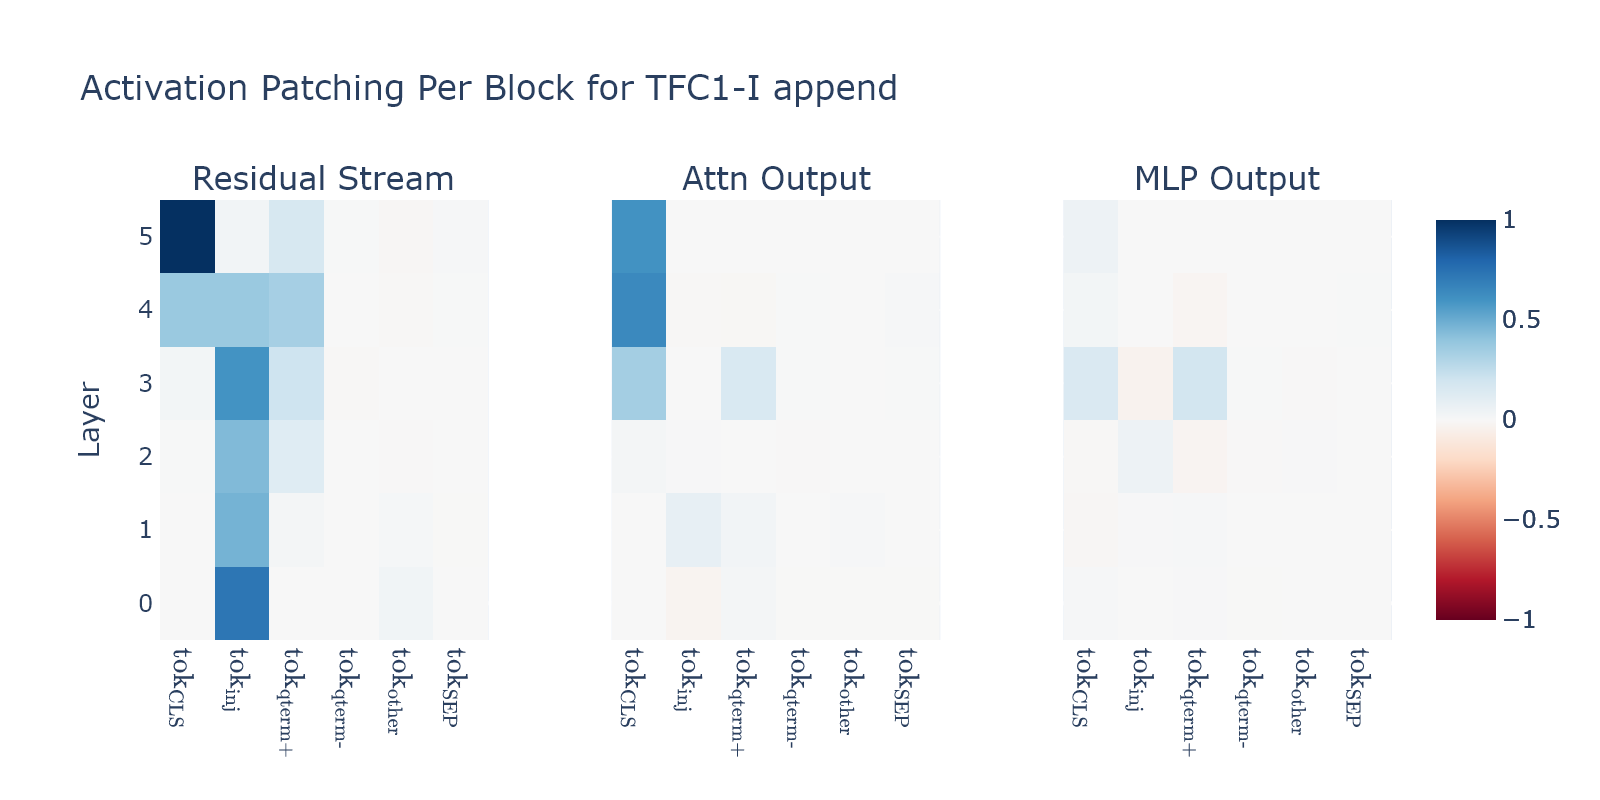
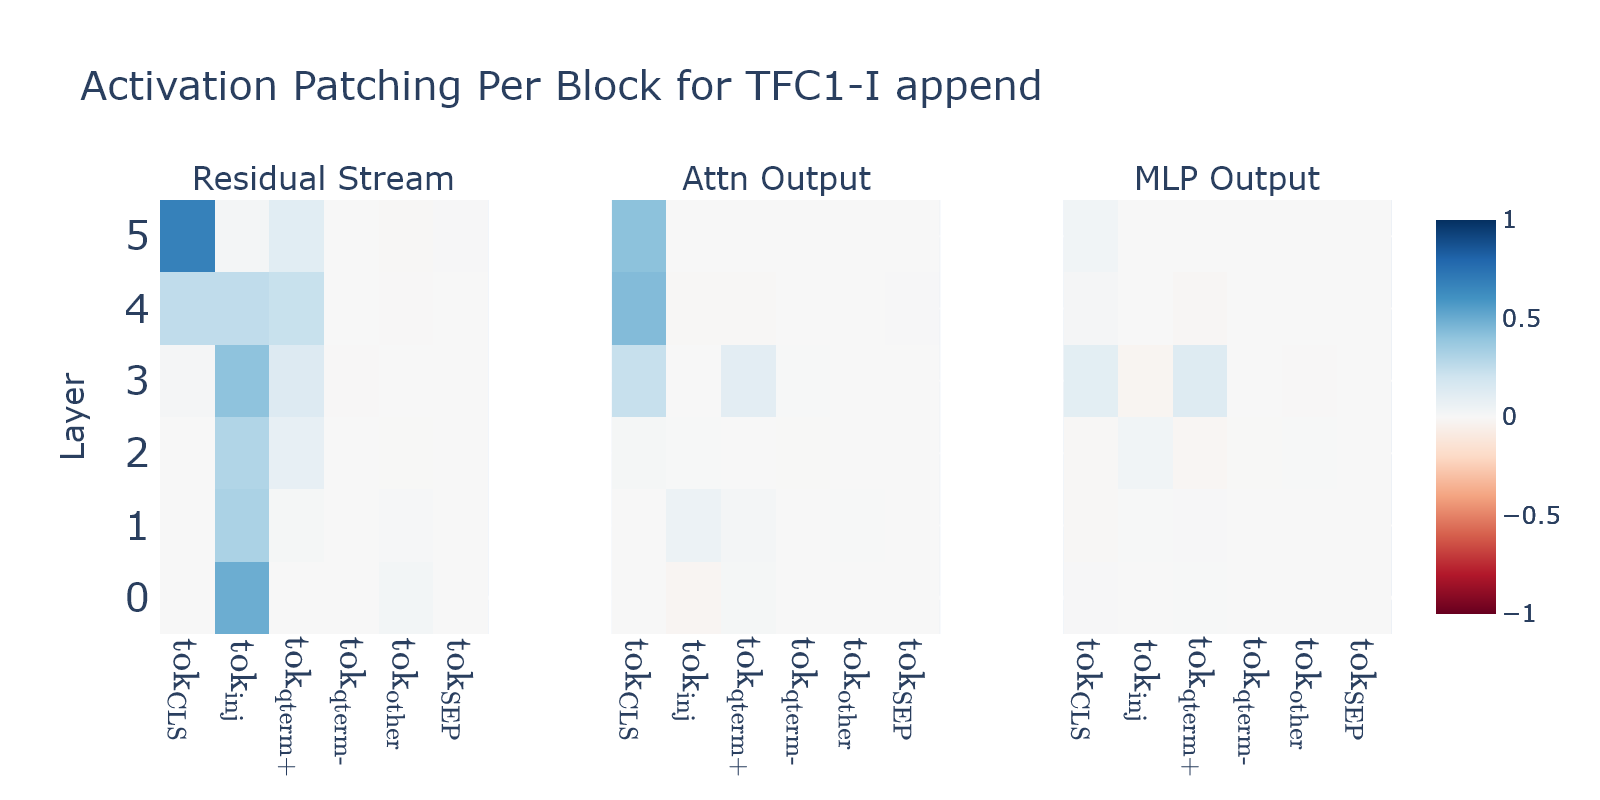
Removed unneccessary functions

diff --git a/plot_results.py b/plot_results.py
@@ -28,14 +28,6 @@ def load_jsonl_file_into_dict(fname):
     return data
 
 
-def load_json_file(file_path):
-    """Load a JSON file."""
-    with open(file_path, "r") as file:
-        # Load JSON data into a dictionary
-        data = json.load(file)
-    return data
-
-
 def load_label_file(file_path):
     """Load a label file."""
     # NOTE: changed encoding from utf-8 to ascii
@@ -48,12 +40,6 @@ def load_label_file(file_path):
         words.append(word)
 
     return words
-
-
-"""
-- rank: int [1,100] # TODO: change this to range?
-- rank_type: og_rank, p_rank
-"""
 
 
 def load_doc_results_by_rank(
@@ -779,7 +765,7 @@ def plot_blocks_plotly(data, labels, save_path, args):
         fig.update_xaxes(
             tickangle=90, title_font_size=20, tickfont=dict(size=20), row=1, col=i + 1
         )
-        fig.update_yaxes(tickfont=dict(size=20), title_font_size=20, row=1, col=i + 1)
+        fig.update_yaxes(tickfont=dict(size=20), title_font_size=16, row=1, col=i + 1)
 
     # make title bigger
     fig.update_layout(title_font_size=20)

diff --git a/experiment.py b/experiment.py
@@ -19,9 +19,6 @@ from helpers import (
     load_tokenizer_and_models,
     preprocess_queries,
     preprocess_corpus,
-    encode_hf,
-    encode_tl,
-    compute_ranking_scores,
     create_df_from_nested_dict,
 )
 from patching_helpers import (
